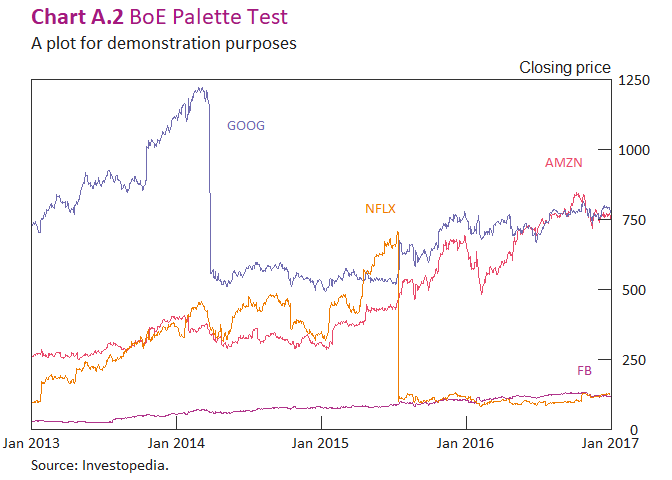
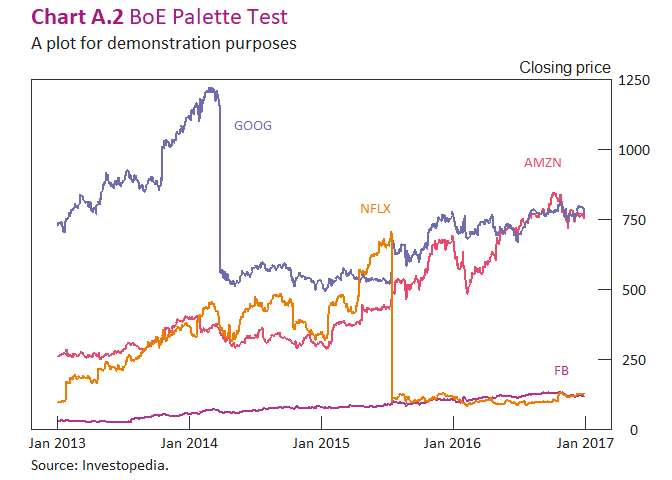
tweak readme examples

diff --git a/README.md b/README.md
@@ -158,7 +158,7 @@ more customization options, including automatic axis breaks/limits
 # create chart
 chart_fang <- ggplot(data = FANG, aes(x = date, y = close, colour = symbol)) +
   # add lines + hide legend
-  geom_line(show.legend = FALSE) +
+  geom_line(size = 1, show.legend = FALSE) +
   # add series labels + hide legend
   geom_text(aes(label = symbol), position = position_voronoi(), 
             family = "Calibri", show.legend = FALSE) +
@@ -198,6 +198,11 @@ example:
 
 ``` r
 fsr_chart_fang <- chart_fang +
+  # apply custom axis settings
+  scale_x_date(
+    labels = boe_date_labels(),
+    breaks = boe_breaks_date()
+    ) +
   theme_fsr_md() +
   labs(title = "**Chart A.2** BoE Palette Test")
 

diff --git a/NEWS.md b/NEWS.md
@@ -4,7 +4,7 @@
 - Added `theme_fsr()` and `fsr_palettes` for FSR-style charts
 - Added `caption_boe()` for formatting data sources and footnotes in chart captions
 - Added markdown variants for each {boeCharts} theme `theme_xxx_md()` to support markdown formatting
-- Demoted `grid`, `gtable` and `ggplotify` dependencies to "Suggests" (from "Imports")
+- Demoted `grid`, `gtable` and `ggplotify` dependencies to "Suggests" (from "Imports"), add `ggtext` and `glue` imports
 - Removed `theme_inflation_report()`
 
 # boeCharts 1.2.3
